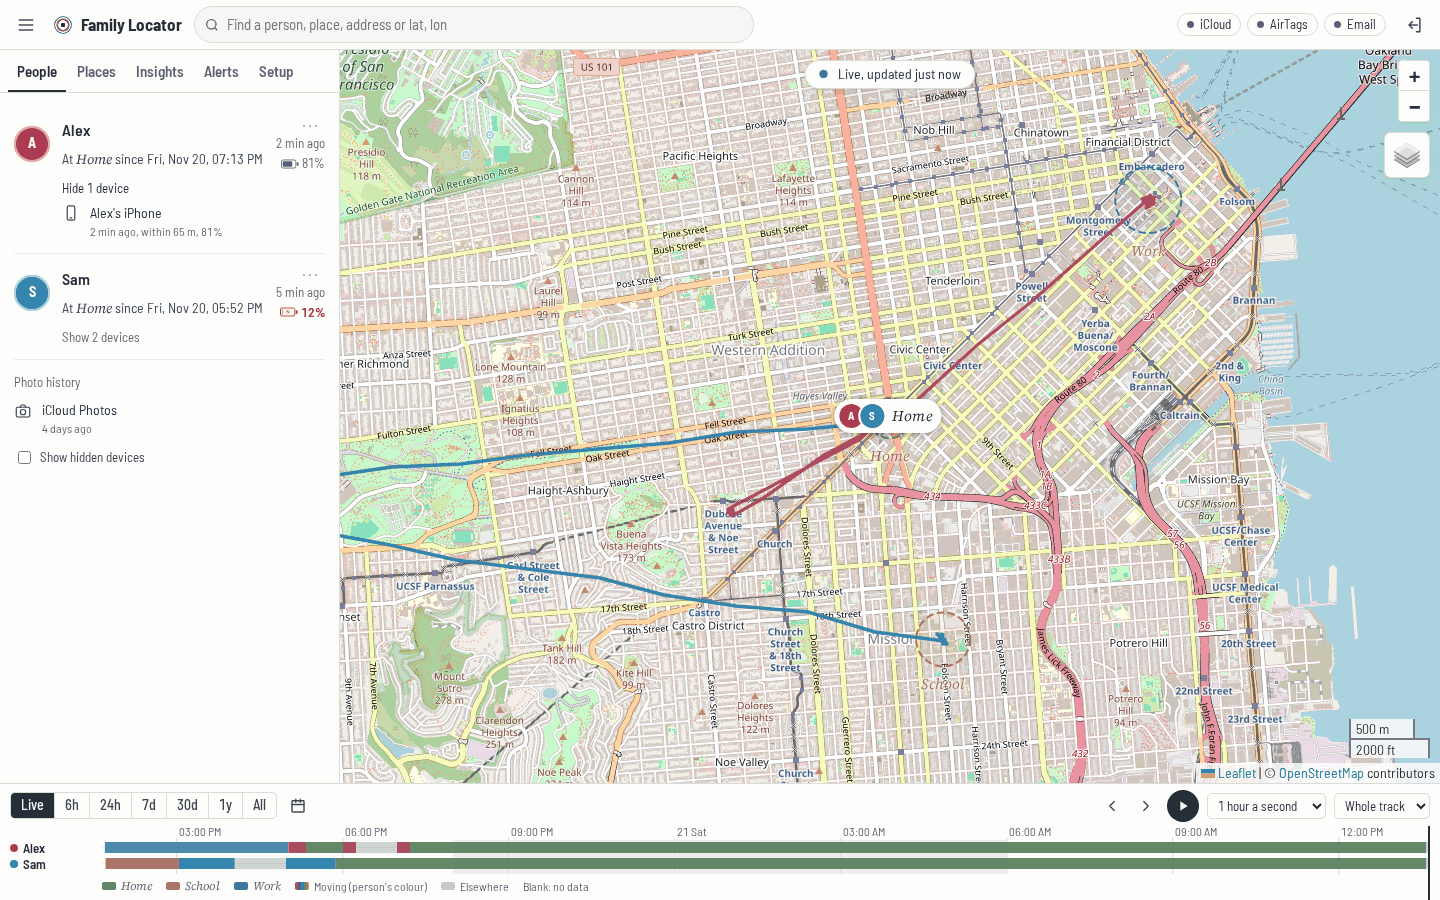
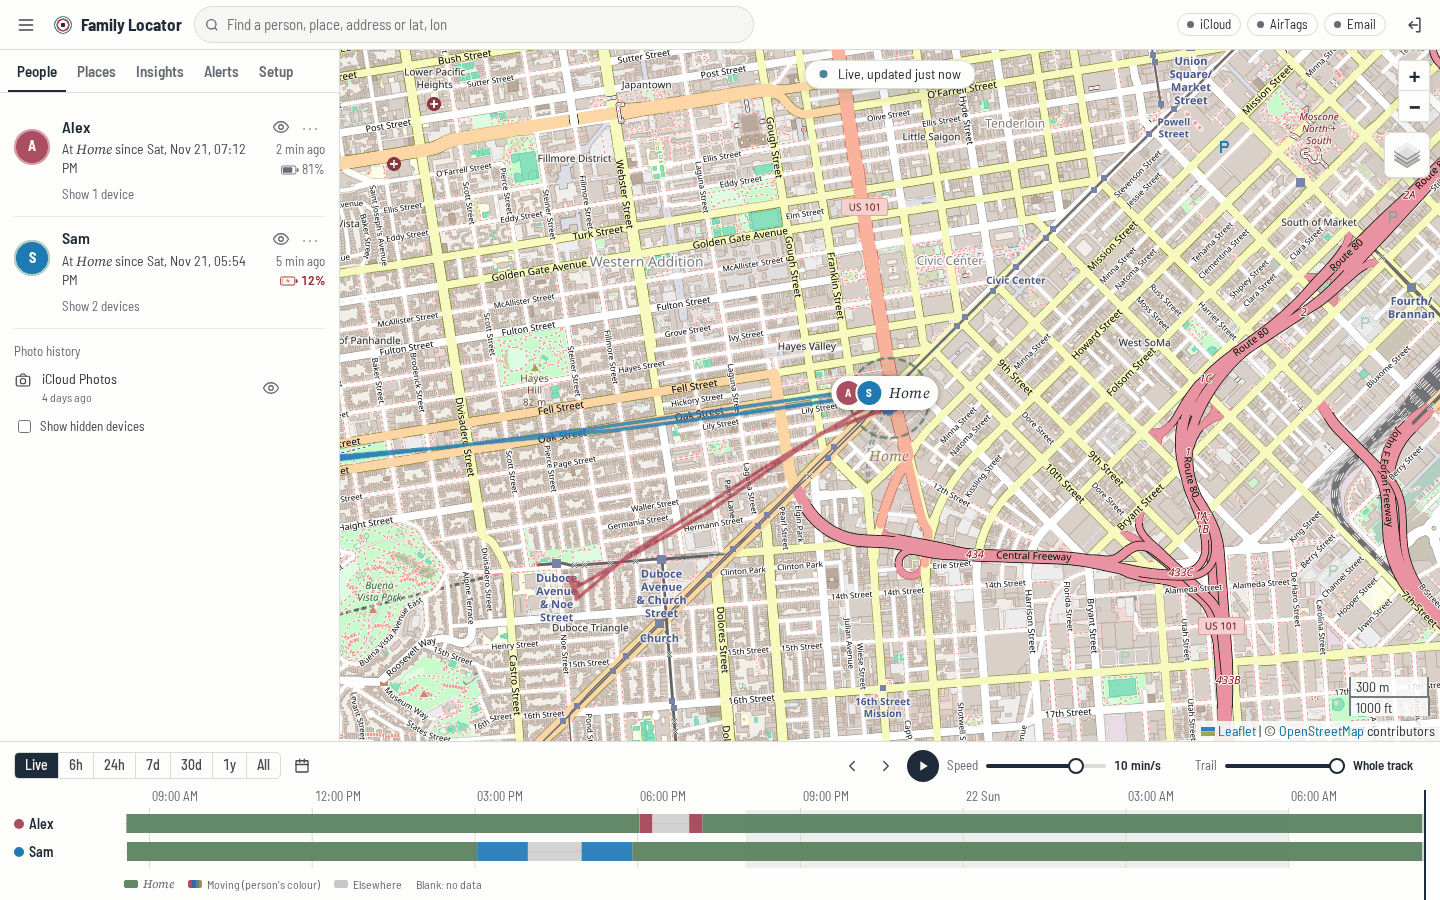
Release 1.7.0: installer (install.sh), map show/hide, continuous timeline sliders, roomier lanes, click-to-centre markers

diff --git a/famloc/__init__.py b/famloc/__init__.py
@@ -1,1 +1,1 @@
-__version__ = "1.6.0"
+__version__ = "1.7.0"

diff --git a/docs/getting-started.md b/docs/getting-started.md
@@ -5,22 +5,53 @@ This guide takes you from a fresh checkout to a running app with your family on 
 ## 1. Install
 
 ```bash
-git clone https://github.com/ukbodypilot/family-locator ~/Downloads/family-locator
-cd ~/Downloads/family-locator
-python3 -m venv .venv
-.venv/bin/pip install -r requirements.txt
+git clone https://github.com/ukbodypilot/family-locator ~/family-locator
+cd ~/family-locator
+./install.sh
 ```
 
-Everything the app keeps lives in `data/`. That folder isn't in git, and the app sets it to
-owner-only permissions.
+The installer:
+
+1. checks for Python 3.11 or newer with the `venv` module (on Debian or Ubuntu:
+   `sudo apt install python3-venv`);
+2. creates `.venv` and installs the packages from `requirements.txt`;
+3. creates `data/` with owner-only permissions, and `data/config.toml` from the example if there
+   isn't one;
+4. installs `~/.config/systemd/user/family-locator.service` pointing at this folder, enables it
+   and starts it;
+5. prints the address to open.
+
+It's safe to run again: it only adds what's missing and never touches your data. Options:
+
+| Command | What it does |
+|---|---|
+| `./install.sh` | Install and start the service |
+| `./install.sh --no-service` | Install without the service; start the app with `.venv/bin/python -m famloc.main` |
+| `./install.sh --update` | `git pull`, update packages, restart the service |
+| `./install.sh --uninstall` | Stop and remove the service; keeps the code and `data/` |
+
+If it warns that lingering is off, run `sudo loginctl enable-linger $USER` so the app keeps running
+after you log out and starts at boot.
+
+Everything the app keeps lives in `data/`. That folder isn't in git.
+
+<details>
+<summary>Manual install, without the script</summary>
+
+```bash
+python3 -m venv .venv
+.venv/bin/pip install -r requirements.txt
+mkdir -p data && chmod 700 data && cp config.example.toml data/config.toml
+.venv/bin/python -m famloc.main
+```
+
+For the service, copy `deploy/family-locator.service` to `~/.config/systemd/user/`, change the two
+paths in it to your folder, then `systemctl --user daemon-reload && systemctl --user enable --now family-locator`.
+</details>
 
 ## 2. Configure email (optional, but you'll want alerts)
 
-```bash
-mkdir -p data && cp config.example.toml data/config.toml
-```
-
-Edit `data/config.toml` and fill in the `[email]` section:
+The installer created `data/config.toml`. Edit it and fill in the `[email]` section:
 
 ```toml
 [email]
@@ -36,9 +67,8 @@ Every other setting can be changed later in the app. See [Configuration](configu
 
 ## 3. Start it
 
-```bash
-.venv/bin/python -m famloc.main
-```
+The installer has already started the service. If you changed `data/config.toml`, restart it with
+`systemctl --user restart family-locator`. (With `--no-service`, run `.venv/bin/python -m famloc.main`.)
 
 Open `http://<this machine's address>:8790` in a browser.
 
@@ -79,16 +109,8 @@ Start with Home. See [Alerts](alerts.md) for who gets alerted and when.
 
 ## 7. Run it as a service
 
-On the gateway machine the app runs as a systemd user service. Lingering is on, so it starts at
-boot without anyone logging in.
-
-```bash
-ln -sf ~/Downloads/family-locator/deploy/family-locator.service ~/.config/systemd/user/
-systemctl --user daemon-reload
-systemctl --user enable --now family-locator
-```
-
-Useful commands:
+`./install.sh` already set this up: a systemd user service, enabled so it starts at boot (with
+lingering on). Useful commands:
 
 ```bash
 systemctl --user status family-locator
@@ -103,10 +125,8 @@ To reach the app from outside the house, see [Phone access](phone-access.md).
 ## Updating
 
 ```bash
-cd ~/Downloads/family-locator
-git pull
-.venv/bin/pip install -r requirements.txt
-systemctl --user restart family-locator
+cd ~/family-locator
+./install.sh --update
 ```
 
 The database is upgraded automatically on start. Browsers pick up the new version on their next

diff --git a/README.md b/README.md
@@ -42,16 +42,20 @@ My locations, shows people on a map and a per-person timeline, and sends alerts 
 ## Quick start
 
 ```bash
-git clone https://github.com/ukbodypilot/family-locator ~/Downloads/family-locator
-cd ~/Downloads/family-locator
-python3 -m venv .venv && .venv/bin/pip install -r requirements.txt
-mkdir -p data && cp config.example.toml data/config.toml   # add Gmail details for alerts
-.venv/bin/python -m famloc.main                            # then open http://<this machine>:8790
+git clone https://github.com/ukbodypilot/family-locator ~/family-locator
+cd ~/family-locator
+./install.sh          # then open the address it prints (port 8790)
 ```
+
+The installer checks for Python 3.11+, creates `.venv` and installs the packages, sets up an
+owner-only `data/` folder with a starter `data/config.toml` (add Gmail details there for alerts),
+and installs and starts a systemd user service. Run it again at any time; it only adds what's
+missing. `./install.sh --update` pulls the latest code and restarts, `--no-service` skips the
+service, and `--uninstall` removes the service but keeps your data.
 
 On first visit you choose a password for the page. Then sign in to iCloud on the **Setup** tab
 with your Apple ID and the 2FA code. Your family's devices appear within a minute. The full
-walkthrough, including running it as a service, is in [Getting started](docs/getting-started.md).
+walkthrough, including a manual install, is in [Getting started](docs/getting-started.md).
 
 ## Documentation
 
@@ -72,7 +76,8 @@ Changes are listed in [CHANGELOG.md](CHANGELOG.md).
 
 ## Requirements
 
-- Python 3.11 or newer (developed on 3.14, Arch Linux).
+- Linux with Python 3.11 or newer (developed on 3.14, Arch Linux). systemd for the service;
+  without it, start the app by hand.
 - An Apple ID in a Family Sharing group, with location sharing turned on by each member.
 - For email: a Gmail address with an [app password](https://myaccount.google.com/apppasswords).
 - For phone access from outside the home: the radio gateway with its Cloudflare tunnel (see

diff --git a/CHANGELOG.md b/CHANGELOG.md
@@ -2,18 +2,27 @@
 
 All notable changes to Family Locator. The version is the git tag.
 
-## [Unreleased]
+## [1.7.0] -- 2026-11-22
 
-- **Clicking a person's marker** (or a group of people) on the map centres the map on them,
-  keeping the zoom, and opens their card there.
-- **Timeline:** playback speed and trail length are continuous log-scale sliders, not drop-downs
-  (speed 1 s to 1 hour per second, default 10 min; trail 15 min to 7 days, or whole track), remembered per
-  browser and shown on phones too. Lanes are taller (28 px, 20 px on phones) with more room
-  around them.
+A one-command installer, and a map and timeline that are easier to focus.
+
+- **Installer.** `./install.sh` checks for Python 3.11+, creates `.venv` and installs the
+  packages, sets up an owner-only `data/` with a starter `config.toml`, and installs and starts a
+  systemd user service pointing at wherever you cloned it. Safe to re-run. `--update` pulls and
+  restarts, `--no-service` skips the service, `--uninstall` removes it and keeps your data. Getting
+  started and the README now use it; the manual steps are still documented.
 - **Show or hide people and devices on the map.** An eye button on each person and device, **Show
   only (name)** in a person's menu, and a **Show all** bar while anything is hidden. Hiding a
   device takes it out of the person's position, e.g. an iPad left at home. Saved per browser;
   alerts and tracking are unchanged.
+- **Timeline sliders.** Playback speed and trail length are continuous log-scale sliders instead
+  of drop-downs: speed 1 s (real time) to 1 hour per second, default 10 min; trail 15 min to 7
+  days, or whole track at the far right. Remembered per browser, and shown on phones too.
+- **Roomier timeline.** Lanes are 28 px tall (20 px on phones, were 16 and 12), with more space
+  around them and larger names and time labels.
+- **Clicking a person's marker** (or a group of people) centres the map on them, keeping the zoom,
+  and opens their card there.
+- Screenshots updated.
 
 ## [1.6.0] -- 2026-11-21
 

diff --git a/docs/troubleshooting.md b/docs/troubleshooting.md
@@ -10,6 +10,17 @@ journalctl --user-unit family-locator -n 100
 On this machine the system journal is kept in memory, so use `--user-unit`.
 `journalctl --user -u ...` can show nothing.
 
+## The installer stops with an error
+
+- **"Python 3.11 or newer is needed"** or **"venv module is missing":** install a newer Python
+  (Debian/Ubuntu: `sudo apt install python3 python3-venv`), or point the installer at one with
+  `PYTHON=python3.12 ./install.sh`.
+- **"no systemd user session here":** common over plain `su` or in containers. The app is
+  installed anyway; start it with `.venv/bin/python -m famloc.main`, or log in normally and re-run.
+- **"the service didn't start":** read the reason with `journalctl --user-unit family-locator -n 50`.
+  A port already in use is the usual one; change `port` in `data/config.toml` and re-run.
+- **The app stops when you log out:** run `sudo loginctl enable-linger $USER`.
+
 ## Blank page, or "Family Locator didn't start"
 
 If the app can't start, the page shows the error after 8 seconds and sends it to the log:
